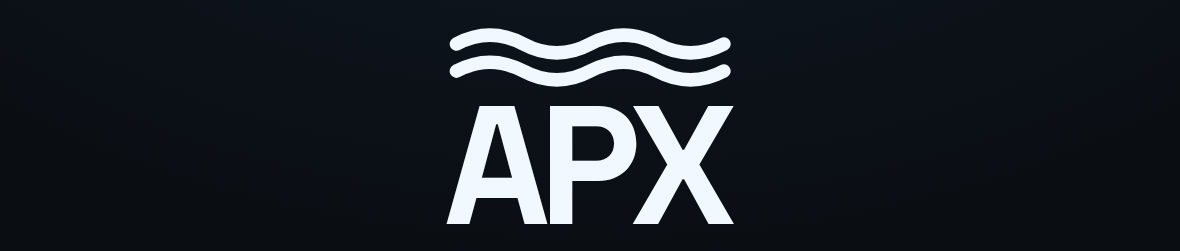
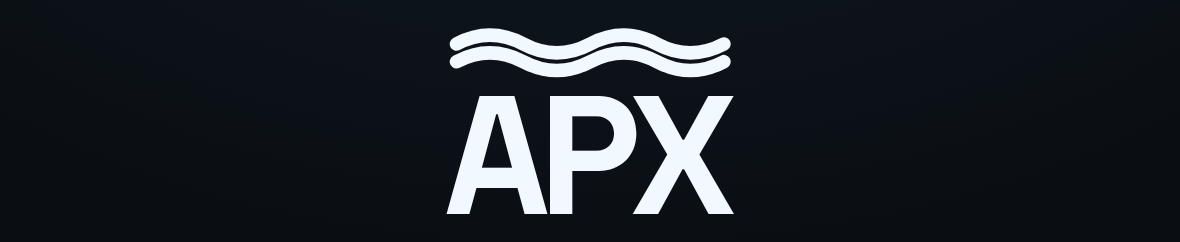
design(grade-lab): try 3.5% wave-to-wave gap

diff --git a/design/grade-lab/lockup.js b/design/grade-lab/lockup.js
@@ -94,7 +94,7 @@ export function renderLockup(host, opts) {
   //   直线↔直线 = 0.035 cap
   const gapFor = (below, above) =>
     below === 'wave' && above === 'wave'
-      ? stem
+      ? cap * 0.035
       : below === 'wave' || above === 'wave'
         ? stem * 0.5
         : cap * 0.035;

diff --git a/prototype/FUTURE.md b/prototype/FUTURE.md
@@ -69,7 +69,7 @@
   波纹逐级消失（`≈` 两波 → `≃` 一波一横 → `≅` 一波两横 → `≡` 三横），不依赖字体覆盖。
 - **锁版规则**：符号与字同宽（取字母实测包围盒，再收半个描边做视觉修正）、描边 = 字干
   （cap height 的 11.5%）、记号底边离 cap line 0.16 cap；行距按行类型给：
-  波浪之间 1 个描边宽、波浪到横线半个描边宽、横线之间 3.5% cap；波纹振幅 7.5% cap。
+  波浪之间与横线之间都是 3.5% cap，波浪到横线半个描边宽；波纹振幅 7.5% cap。
   默认摆法是「整枚记号压在字上方」。
 - 恰好 100% 记为 **`IDN+`**（`IDN` 覆盖 99–100%，`IDN+` 只在满分时出现）。
 - 字母词表待定（当前提案 `APX / ASM / CGR / IDN`）。

diff --git a/design/grade-lab/README.md b/design/grade-lab/README.md
@@ -30,7 +30,7 @@
 | --- | --- |
 | 同宽 | 符号左右边界 = 三个字母的包围盒（再收半个描边做视觉修正） |
 | 同粗 | 描边 = 字干粗细（≈ cap height 的 11.5%） |
-| 对齐 | 记号底边离 cap line 0.16 cap；行距按行类型给：波浪之间 **1 个描边宽**、波浪到横线 **半个描边宽**、横线之间 **3.5% cap** |
+| 对齐 | 记号底边离 cap line 0.16 cap；行距：波浪之间、横线之间都是 **3.5% cap**，波浪到横线 **半个描边宽** |
 | 振幅 | 波纹 7.5% cap：再大，两条波浪在“1 个描边宽”的间距下会视觉粘连 |
 
 符号也是自绘 SVG：`≈` 两波 → `≃` 一波一横 → `≅` 一波两横 → `≡` 三横。
